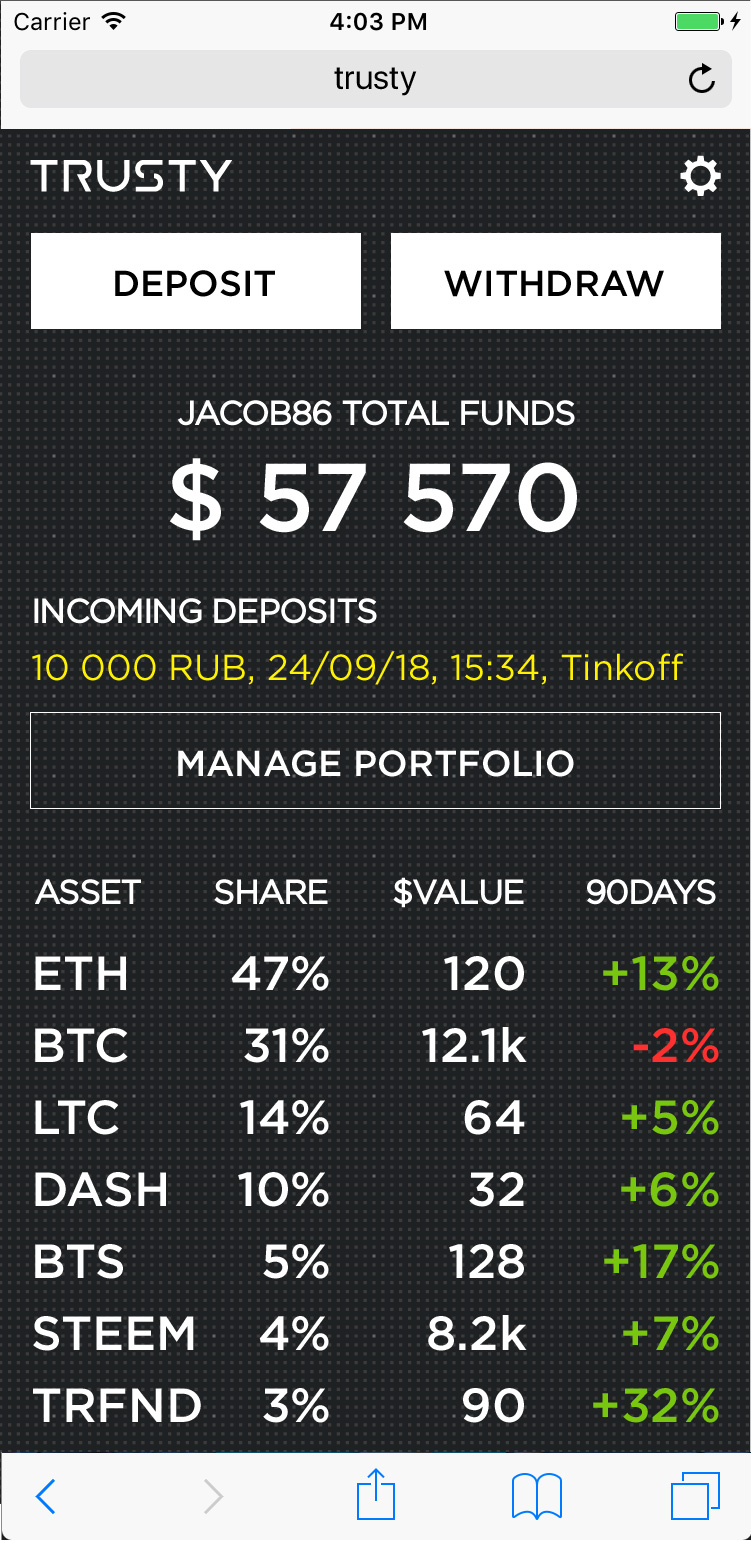
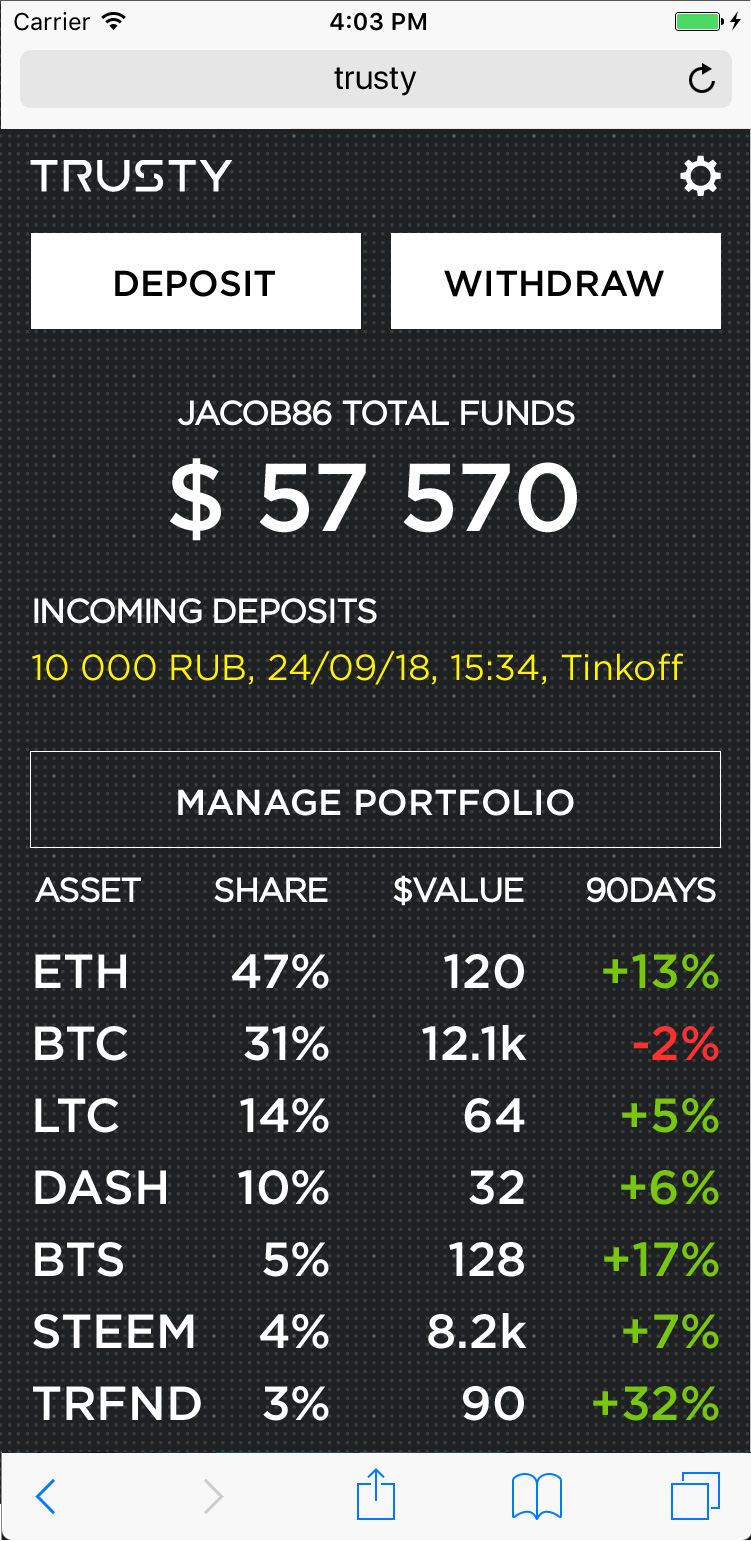
change unknow value to none

diff --git a/app/components/Utility/Trusty/EquivalentValueComponent.jsx b/app/components/Utility/Trusty/EquivalentValueComponent.jsx
@@ -126,7 +126,7 @@ class ValueComponent extends React.Component {
         let eqValue = price ? utils.convertValue(price, amount, fromAsset, toAsset) : null;
         
         if (!eqValue && eqValue !== 0) {
-            return <div className="tooltip inline-block" data-place="bottom" data-tip={counterpart.translate("tooltip.no_price")} style={{fontSize: "0.9rem"}}><Translate content="account.no_price" /></div>;
+           return <div className="tooltip inline-block" data-place="bottom" data-tip={counterpart.translate("tooltip.no_price")} style={{fontSize: "0.9rem"}}><Translate content="account.no_price" /></div>;
         }
 
         return <FormattedAsset noPrefix amount={eqValue} trustyPercentage={true} asset={toID} decimalOffset={toSymbol.indexOf("BTC") !== -1 ? 4 : this.props.noDecimals ? toAsset.get("precision") : 0}/>;

diff --git a/app/assets/stylesheets/trusty/components/account-page.scss b/app/assets/stylesheets/trusty/components/account-page.scss
@@ -22,14 +22,15 @@
 		@media screen and (max-width: 750px) {
 			font-size: 6vw;
 		}
-		font-family: 'Gotham_Pro_Medium';
+		font-family: 'Gotham_Pro_Regular';
 
 	}
 
 	td {
-		@media screen and (max-width: 750px) {
-			padding-top:0;
-			font-size: 5vw;
+
+		@media screen and (max-width: 750px){
+			margin-top: 10px;
+				
 		}
 		span {
 			@media screen and (max-width: 750px){

diff --git a/app/assets/stylesheets/trusty/index.scss b/app/assets/stylesheets/trusty/index.scss
@@ -232,11 +232,11 @@ $header_size: 50px;
 
 	@media screen and ( max-width: 750px) {
 		height: 13.2vw;
-	  margin-top: 2.3vw;
+	  margin-top: 7.3vw;
 	  font-size: 4.8vw;
 		width: 100%;
 	}
-	
+
 	border: 1px solid white;
 	text-transform: uppercase;
 	background: transparent;
